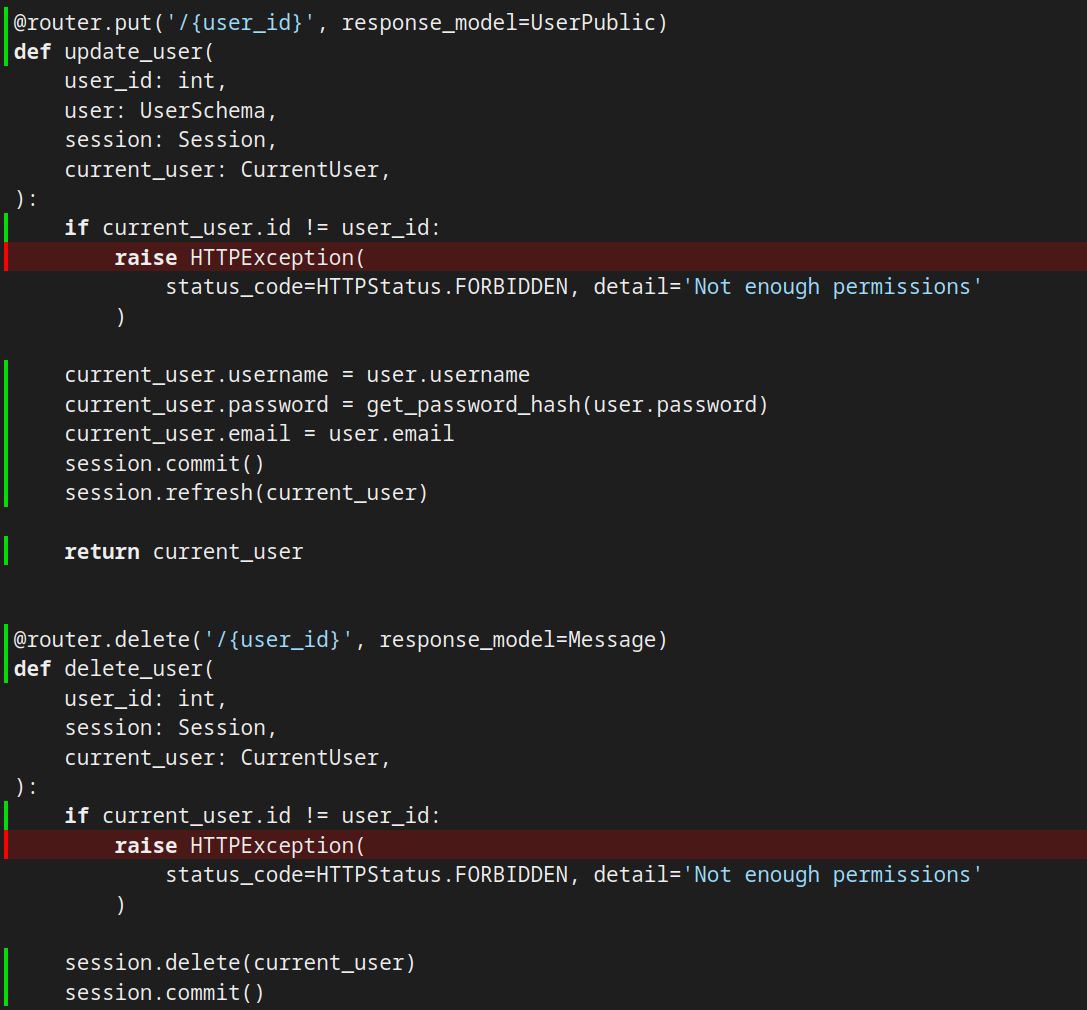
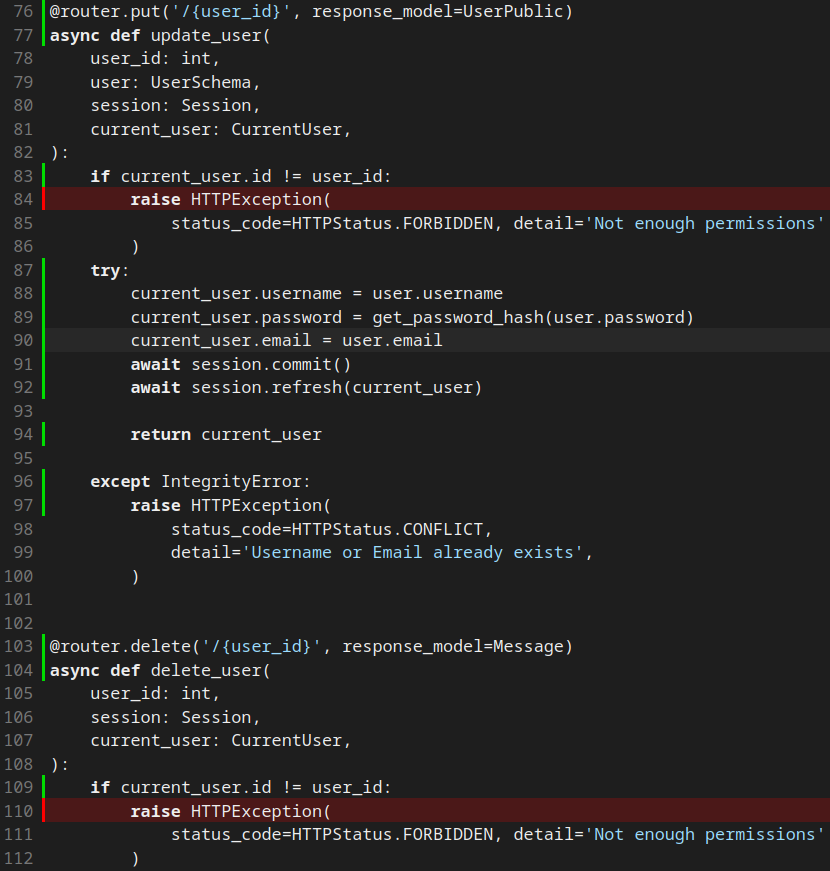
[asyncio] Ajustando e adicionando assets

Changed region(s): [[0.0, 0.0, 1.0, 0.992], [0.5422, 0.713, 0.6928, 0.775], [0.4217, 0.713, 0.512, 0.775]]

diff --git a/aulas/09.md b/aulas/09.md
@@ -31,8 +31,6 @@ Antes de mergulharmos nos testes, conversaremos um pouco sobre por que eles são
 
 Por exemplo, o que acontece se tentarmos autenticar um usuário que não existe? Ou se tentarmos autenticar com as credenciais erradas? Se não testarmos esses cenários, podemos acabar com um sistema que parece funcionar na superfície, mas que, na verdade, está cheio de falhas de segurança.
 
-> TODO: Gerar novamente essa imagem
-
 ![descrição](assets/09/coverage_mostrando_que_o_put_não_foi_testado_com_usuario_errado.png){: .center .shadow width=700 }
 
 No código apresentado, se observarmos atentamente, vemos que o erro `#!python HTTPException(status_code=HTTPStatus.FORBIDDEN, detail='Not enough permissions')` em `users.py` na rota `/{user_id}` não está sendo coberto por nossos testes. Essa exceção é lançada quando um usuário não autenticado ou um usuário sem permissões adequadas tenta acessar, ou alterar um recurso que não deveria.

diff --git a/aulas/08.md b/aulas/08.md
@@ -595,7 +595,11 @@ Com isso temos todos os endpoints funcionando de forma correta e assíncrona!
 
 Como o fluxo de execução deixa de ser linear, algumas coisas costumam aparecer não cobertas, mesmo quando executadas. Se você prestou atenção durante a execução dos testes, parece que temos coisas substancialmente erradas:
 
-> TODO: Adicionar imagem da cobertura de `users`
+![descrição](assets/08/cobertura_errada.png){: .center .shadow }
+
+> TODO: texto. Link com [endpoint GET](#endpoint-de-get){:target="_blank"}
+
+![descrição](assets/08/nao_exibindo_cobertura_no_return.png){: .center .shadow }
 
 ```toml title="pyproject.toml"
 [tool.coverage.run]

diff --git a/aulas/10.md b/aulas/10.md
@@ -130,8 +130,6 @@ Estes conceitos podem parecer um pouco complexos agora, mas ficarão mais claros
 
 Embora tenhamos 100% de cobertura de código, isso não garante que tudo esteja funcionando corretamente. Só implementamos a estrutura do banco de dados, mas não testamos a lógica de como as tabelas e as relações funcionam na prática.
 
-> TODO: Refazer esse asset
-
 ![descrição](assets/10/cobertuda_total_dos_models_mesmo_sem_testes.png){: .center }
 
 > TODO: Texto para teste da tabela
